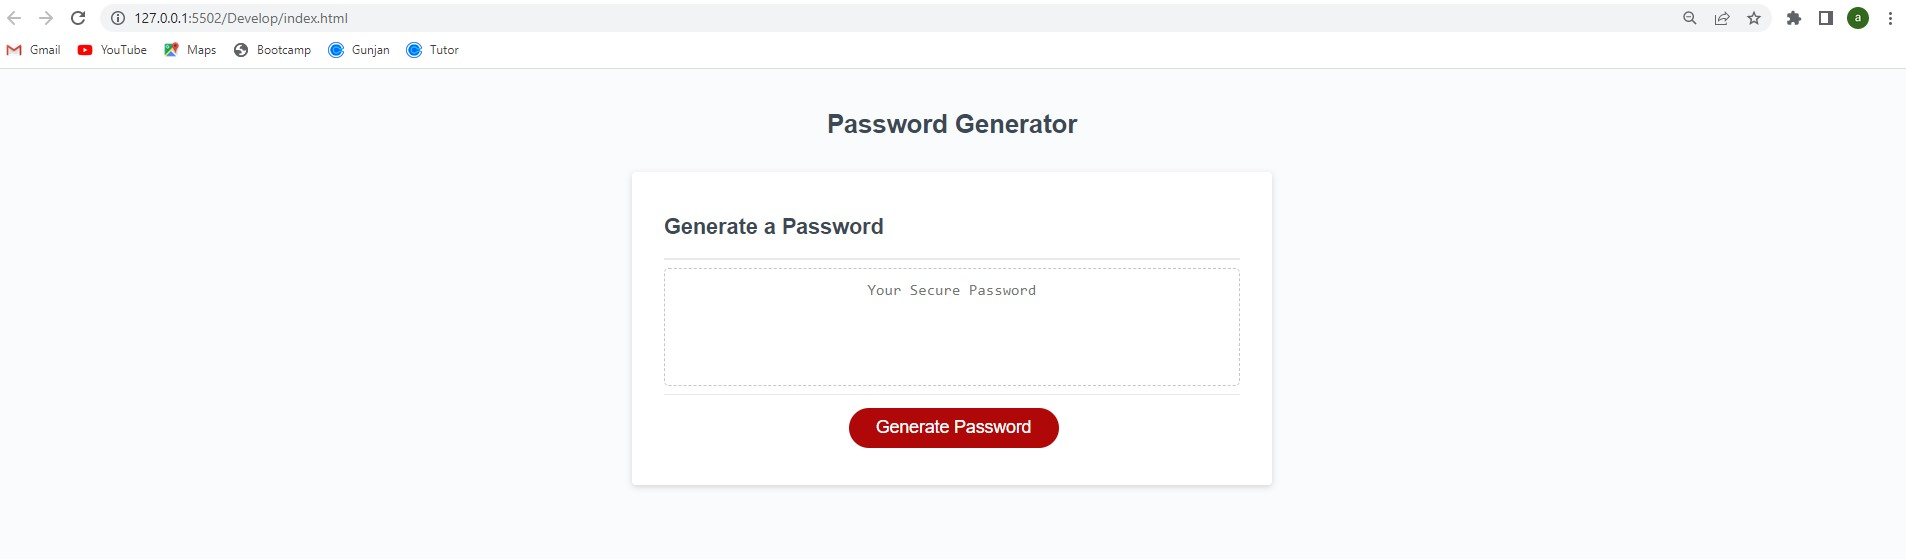
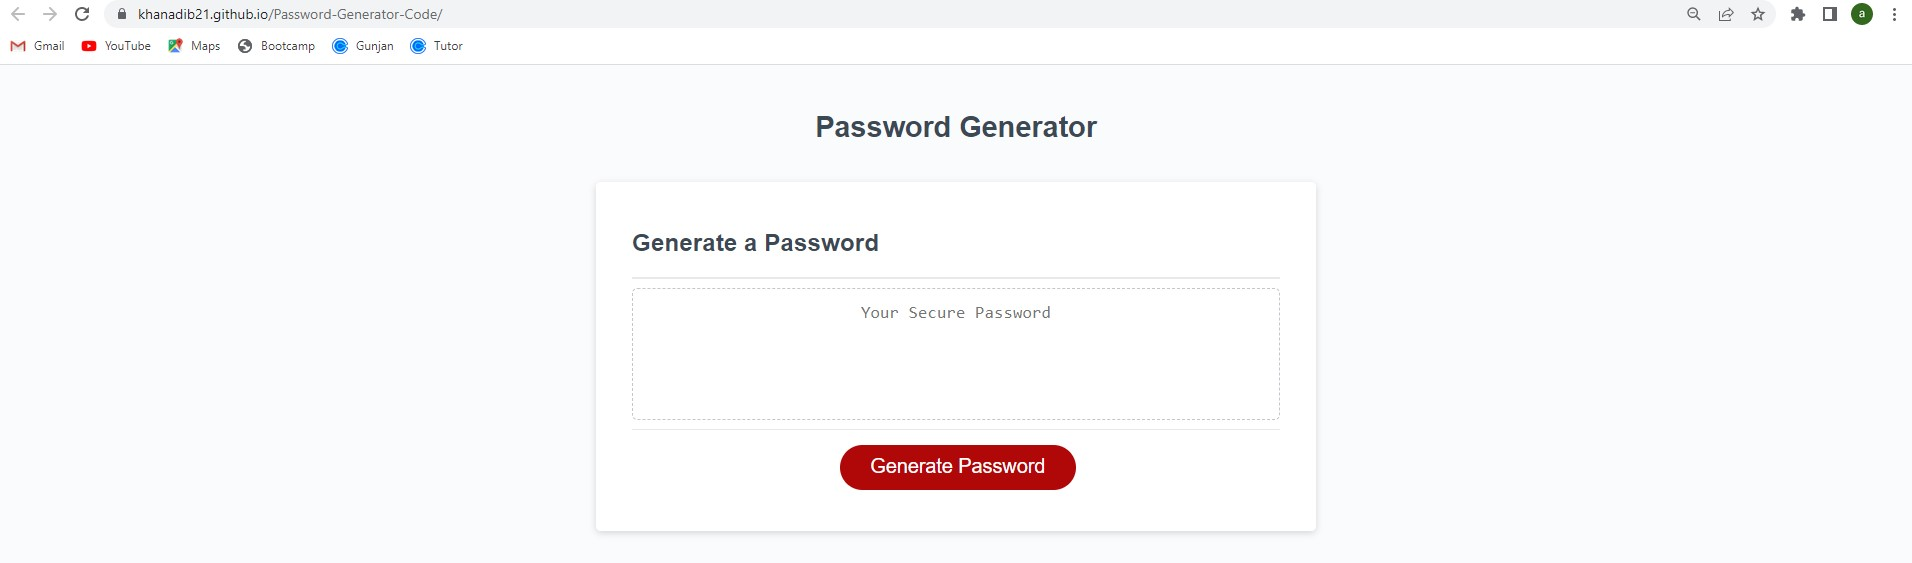
updated Read me File

diff --git a/README.md b/README.md
@@ -13,7 +13,7 @@ The task for module 3 challenge was to to create an application that an employee
 - [License](#license)
 - [How To Contribute](#how-to-contribute)
 ## Website Preview
-[Developer Website Link](https://khanadib21.github.io/challenge2/)
+[Developer Website Link](https://khanadib21.github.io/Password-Generator-Code/)
 ![Developer Portfolio Website](./Screenshot%202023-05-18%20133341.jpg)
 ## Credits
 NOTE: Click preview pictures to navigate to the referenced site
